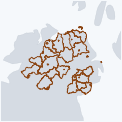
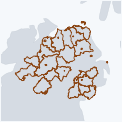
Force tighter Browse thumbnail cache refresh

diff --git a/browse/browse.js b/browse/browse.js
@@ -1,4 +1,5 @@
 const DATA_ROOT = '../data/browse';
+const THUMBNAIL_ASSET_VERSION = '20260604-tight-admin-frame';
 const ENTITY_CONFIG = {
   maps: { label: 'Maps', singular: 'Map', index: 'maps.json', detailDir: 'maps', action: 'Open in interactive map' },
   elections: { label: 'Elections', singular: 'Election', index: 'elections.json', detailDir: 'elections', action: 'Open election layer' },
@@ -507,7 +508,7 @@ function renderMapThumbnailNote(item) {
     return `
       <p class="browse-thumb-caption browse-map-thumbnail-note">
         Thumbnail asset: <span>${escapeHtml(thumbnail.id || fileName(thumbnail.url))}</span>
-        ${thumbnail.url ? ` · <a href="${escapeAttr(thumbnail.url)}" target="_blank" rel="noopener noreferrer">Open actual size</a>` : ''}
+        ${thumbnail.url ? ` · <a href="${escapeAttr(versionedThumbnailUrl(thumbnail.url))}" target="_blank" rel="noopener noreferrer">Open actual size</a>` : ''}
       </p>
     `;
   }
@@ -648,9 +649,11 @@ function renderThumbnail(item, context = 'card') {
   const thumbnail = normalizedThumbnail(item);
   if (!thumbnail) return '';
   if (thumbnail.kind === 'asset' && thumbnail.url) {
-    const src = context === 'card' ? (thumbnail.smallUrl || thumbnail.url) : thumbnail.url;
+    const url = versionedThumbnailUrl(thumbnail.url);
+    const smallUrl = thumbnail.smallUrl ? versionedThumbnailUrl(thumbnail.smallUrl) : null;
+    const src = context === 'card' ? (smallUrl || url) : url;
     const srcset = context === 'card' && thumbnail.smallUrl && thumbnail.url
-      ? ` srcset="${escapeAttr(thumbnail.smallUrl)} 60w, ${escapeAttr(thumbnail.url)} 120w" sizes="72px"`
+      ? ` srcset="${escapeAttr(smallUrl)} 60w, ${escapeAttr(url)} 120w" sizes="72px"`
       : '';
     return `
       <figure class="browse-thumb browse-thumb--${escapeAttr(context)}">
@@ -672,6 +675,12 @@ function renderThumbnail(item, context = 'card') {
   `;
 }
 
+function versionedThumbnailUrl(url) {
+  if (!url || !url.startsWith('/assets/thumbnails/')) return url;
+  const separator = url.includes('?') ? '&' : '?';
+  return `${url}${separator}v=${THUMBNAIL_ASSET_VERSION}`;
+}
+
 function renderThumbnailPanel(item) {
   const thumbnail = normalizedThumbnail(item);
   const caption = thumbnail.kind === 'asset'
@@ -683,7 +692,7 @@ function renderThumbnailPanel(item) {
       <div class="browse-detail__body">
         ${renderThumbnail(item, 'detail')}
         <p class="browse-thumb-caption">${escapeHtml(caption)}</p>
-        ${thumbnail.kind === 'asset' && thumbnail.url ? `<p class="browse-thumb-caption"><a href="${escapeAttr(thumbnail.url)}" target="_blank" rel="noopener noreferrer">Open thumbnail at actual size</a></p>` : ''}
+        ${thumbnail.kind === 'asset' && thumbnail.url ? `<p class="browse-thumb-caption"><a href="${escapeAttr(versionedThumbnailUrl(thumbnail.url))}" target="_blank" rel="noopener noreferrer">Open thumbnail at actual size</a></p>` : ''}
       </div>
     </section>
   `;

diff --git a/scripts/regen-thumbnails.py b/scripts/regen-thumbnails.py
@@ -34,7 +34,7 @@ ALL_IRELAND_MIN_CONTEXT_SPAN = 520000
 LOCAL_MIN_CONTEXT_SPAN = 90000     # metres: keeps local open-data layers legible
 REGIONAL_ADMIN_MIN_CONTEXT_SPAN = 170000
 REGIONAL_ADMIN_MAX_CONTEXT_SPAN = 500000
-REGIONAL_ADMIN_FEATURE_FOOTPRINT = 0.78
+REGIONAL_ADMIN_FEATURE_FOOTPRINT = 0.92
 MAX_CONTEXT_SPAN = 680000          # cap locator context so feature footprints stay dominant
 
 EMPTY_GEOMS = {'polys': [], 'lines': [], 'points': []}
@@ -282,7 +282,7 @@ def context_span(map_config, feature_span):
         'admin-areas', 'administrative areas', 'historic administrative'
     )):
         span = min(
-            max(feature_span * 1.24, REGIONAL_ADMIN_MIN_CONTEXT_SPAN),
+            max(feature_span * 1.08, REGIONAL_ADMIN_MIN_CONTEXT_SPAN),
             REGIONAL_ADMIN_MAX_CONTEXT_SPAN,
         )
         return _cap_to_feature_footprint(span, feature_span, REGIONAL_ADMIN_FEATURE_FOOTPRINT)

diff --git a/tasks/todo.md b/tasks/todo.md
@@ -3642,3 +3642,23 @@ Add election entries to /test2
   - Completed: `scripts/regen-thumbnails.py` now applies a specific regional administrative thumbnail profile with an explicit feature-footprint cap, reducing the representative viewport from about 619 km to about 439 km.
   - Completed: regenerated `assets/thumbnails/admin-areas-1924-04-01.png`, `.webp`, and `-60.webp`; visual inspection shows the NI boundaries now dominate the thumbnail while retaining grey Ireland/Britain context.
   - Verification evidence: `python -m py_compile scripts/regen-thumbnails.py` passed; `npm run build:browse` passed; generated Browse JSON churn was reverted; `npm run check` passed.
+
+# Force tight Browse thumbnail framing and bypass stale thumbnail cache
+- [x] Record recurrence
+  - Symptom: User still sees the old-looking `admin-areas-1924-04-01` thumbnail after the first framing fix was committed and pushed.
+  - Root cause: the previous crop was improved but still not aggressively feature-fitted enough, and the asset URL stayed unchanged so browser/CDN cache could continue serving the old image.
+  - Permanent prevention action: tighten the regional admin feature-footprint target further and make Browse asset thumbnail URLs versioned.
+  - Verification evidence: pending.
+- [x] Tighten crop again
+  - Increase the feature-footprint requirement for regional administrative thumbnails so the features occupy the frame rather than just a locator context.
+- [x] Add cache-busting for thumbnail asset URLs
+  - Version Browse thumbnail `src`, `srcset`, and actual-size links so same-name regenerated assets are not silently cached.
+- [x] Regenerate and verify
+  - Regenerate the representative thumbnail and inspect it at source/display size.
+- [x] Commit and push
+  - Run checks, commit, and push to production branch.
+  - Completed: regional admin footprint target increased from 0.78 to 0.92 and context multiplier reduced from 1.24 to 1.08.
+  - Completed: `admin-areas-1924-04-01` now computes a representative feature ratio of about 0.926 rather than about 0.806.
+  - Completed: Browse thumbnail asset URLs now append `?v=20260604-tight-admin-frame` in `src`, `srcset`, and actual-size links.
+  - Completed: regenerated `assets/thumbnails/admin-areas-1924-04-01.png`, `.webp`, and `-60.webp`; visual inspection shows a much tighter feature-fitted frame.
+  - Verification evidence: `node --check browse/browse.js` passed; `python -m py_compile scripts/regen-thumbnails.py` passed; `npm run build:browse` passed; `npm run check` passed; `npm run build` passed after approved esbuild spawn escalation.

diff --git a/tasks/lessons.md b/tasks/lessons.md
@@ -1830,3 +1830,12 @@ ode --check ... 2>&1 on every startup-critical module and inspect the edited blo
   2) regional maps such as NI-only administrative areas should use a tighter locator frame than all-island maps,
   3) validate generated thumbnails at their displayed Browse size as well as at source asset size,
   4) if a feature occupies too little of the square canvas, reduce context or shift to a tighter crop before broad regeneration.
+
+### 138) Regenerated thumbnails need URL invalidation
+- Mistake pattern: Regenerating same-name thumbnail assets and assuming production users will see the new pixels immediately.
+- Impact: Browser/CDN cache can keep showing the old asset, making a real generated fix appear unchanged on the live site.
+- Guardrail:
+  1) whenever a same-path thumbnail asset is materially changed, also advance the Browse thumbnail URL version or use a fingerprinted asset path,
+  2) apply versioning to `src`, `srcset`, and "open actual size" links,
+  3) verify the rendered HTML requests the versioned asset, not just that the local file changed,
+  4) prefer runtime asset URL versioning over broad generated Browse JSON rewrites unless the data contract itself changed.
